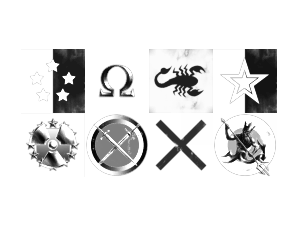
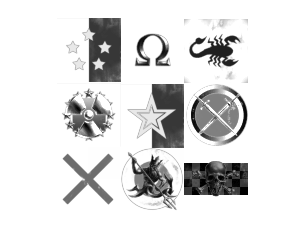
Added Criterion slide and added references to the corp (#1021)

diff --git a/frontend/app/src/i18n/ui.ts b/frontend/app/src/i18n/ui.ts
@@ -856,6 +856,7 @@ export const ui = {
         'soltech_armada_description_fallback': 'Fly dangerous! Die gloriously! Reship!',
         'exitstrategy_description_fallback': 'Over a decade of experience in wormhole space, operating when most of the universe is asleep.',
         'protean_description_fallback': 'Be the dog that catches the car. Driven by relentless aggression, quick pivots, and a versatile toolkit, AD4PT turns impossible situations into victories.',
+        'criterion_expeditionary_description_fallback': 'Just a bunch of homies collecting tears for 13 years now.',
         'requirements': 'Requirements',
         'timezones': 'Timezones',
         'learn_more_dialog_title': 'Learn more about corporation',
